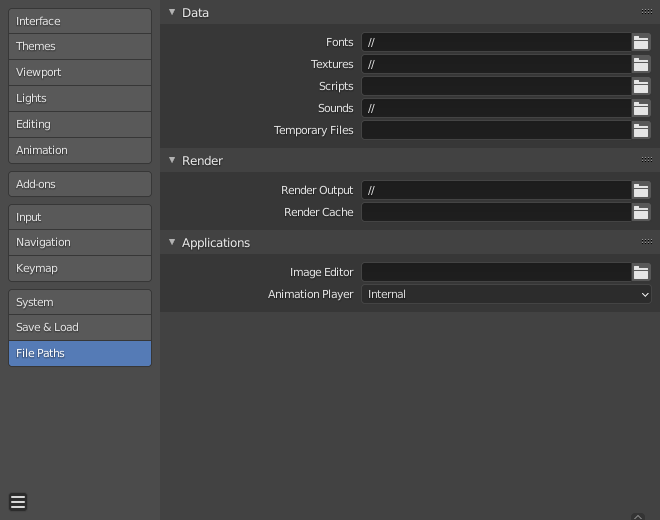
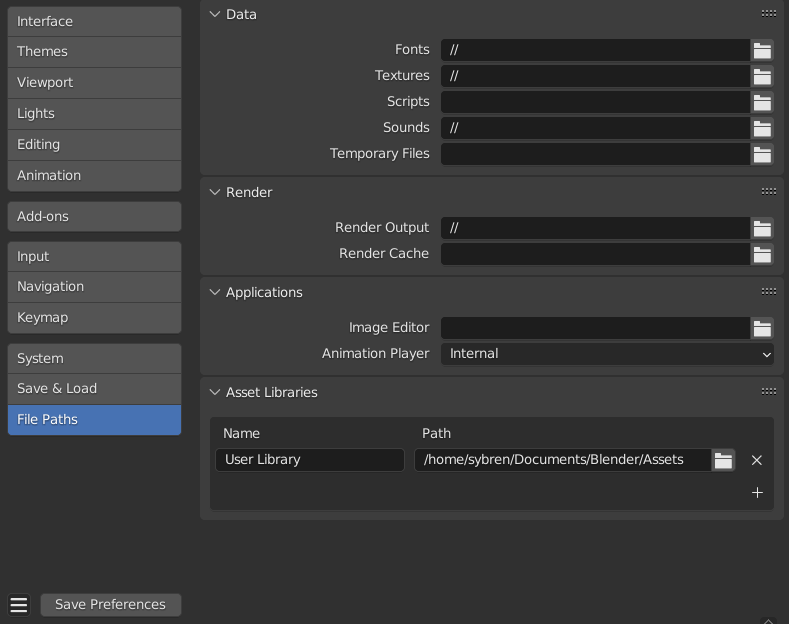
Preferences: Asset Libraries
git-svn-id: https://svn.blender.org/svnroot/bf-manual/trunk/blender_docs@8695 c4de1f47-6596-e411-a384-0024e86c2797

diff --git a/manual/editors/preferences/file_paths.rst b/manual/editors/preferences/file_paths.rst
@@ -100,7 +100,18 @@ I18n Branches
 Asset Libraries
 ===============
 
-Todo Asset Browsing.
+Name and on-disk directory paths of Asset Libraries. To make Blender aware of an
+asset library, add it to this list. The name is for your reference only, and
+will appear in asset library selectors. The path should point to the location of
+the asset library.
+
+.. figure:: /images/asset_browser-asset_library_preferences.png
+
+   Name & Location of asset libraries in the Preferences.
+
+To create a new asset library, just create an empty directory and add it to the
+list. Any asset from any blend file contained in that directory (or
+subdirectories thereof) will appear in the :doc:`/editors/asset_browser`.
 
 
 Known Limitations

diff --git a/manual/files/asset_libraries/introduction.rst b/manual/files/asset_libraries/introduction.rst
@@ -43,6 +43,7 @@ are meant for reuse.**
 
    For more info, see :ref:`asset-libraries-future-development`.
 
+.. _what-is-asset-library:
 
 What is an Asset Library?
 =========================
